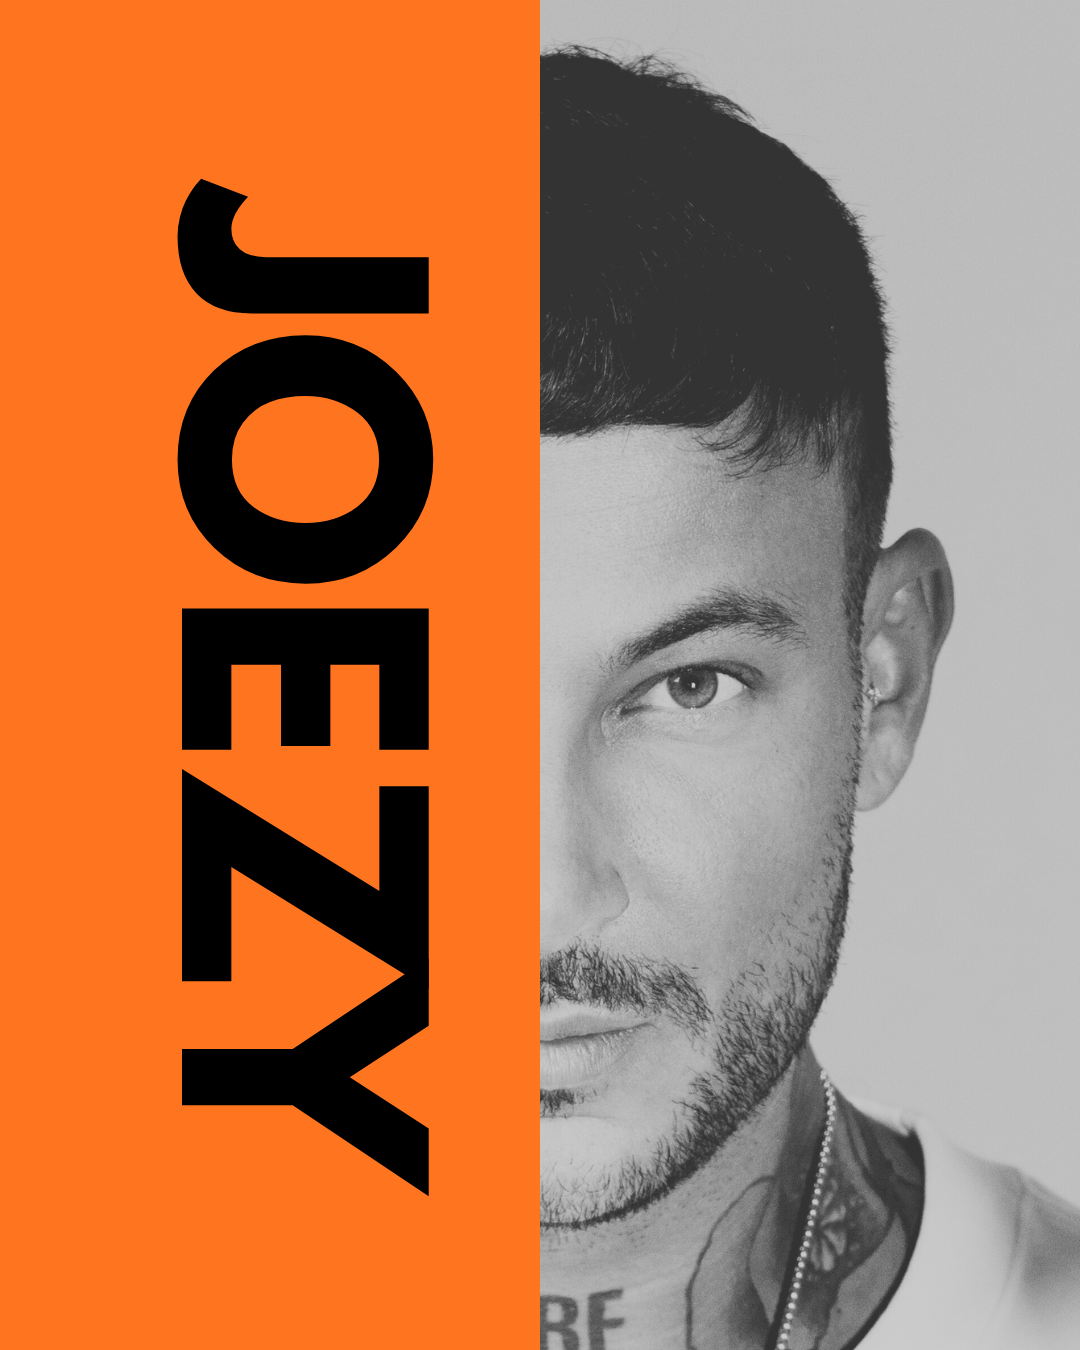
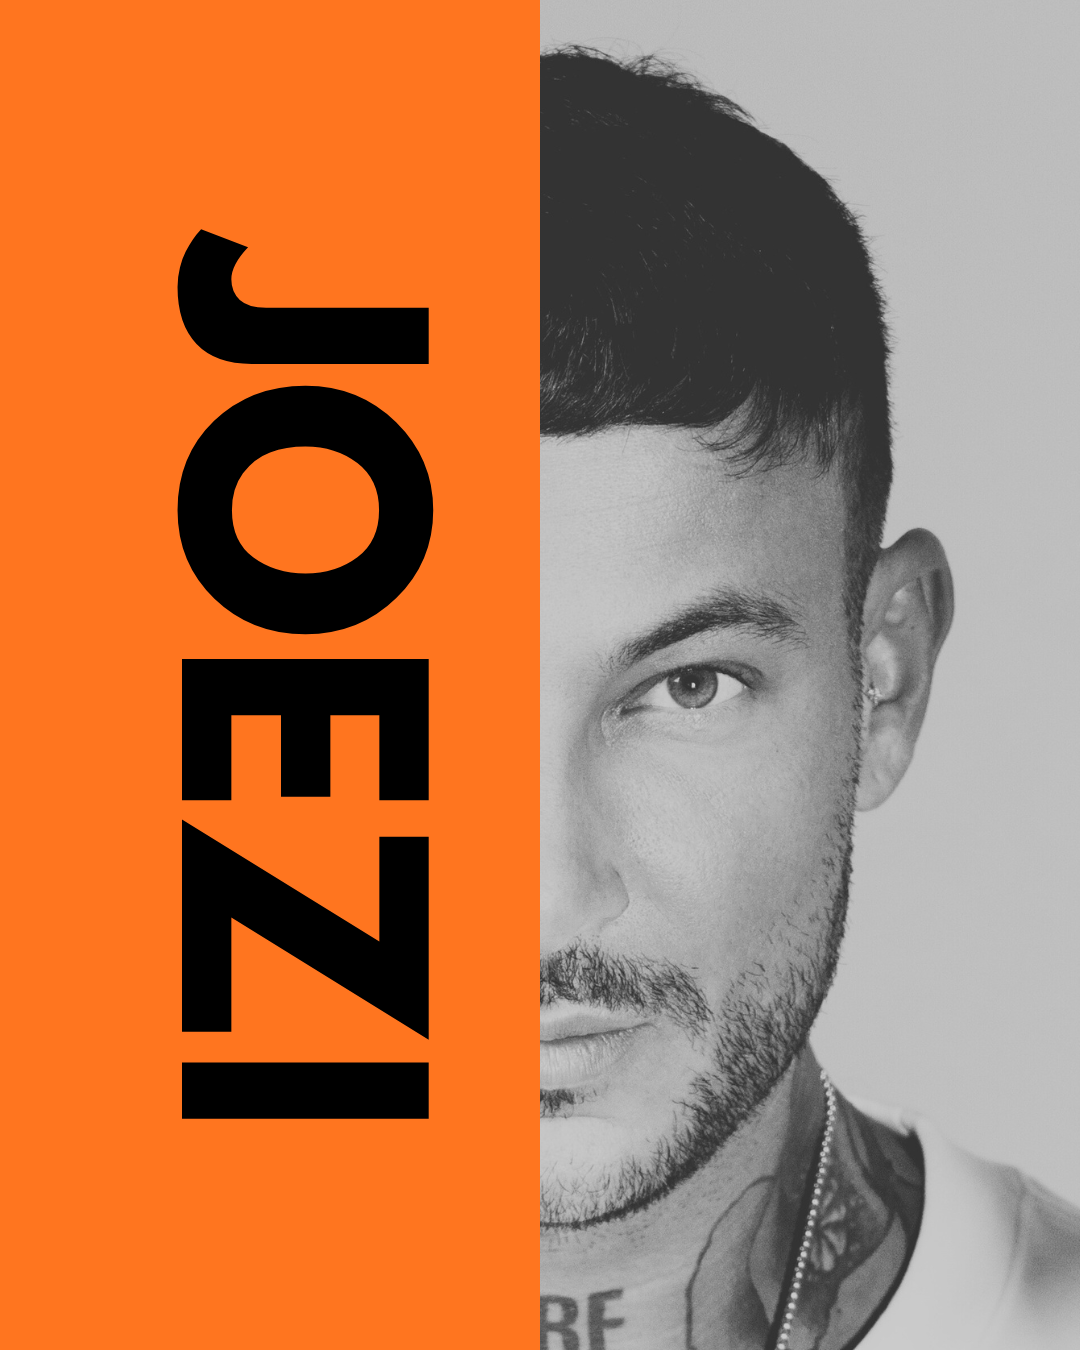
test lineup

Changed region(s): [[0.1528, 0.1244, 0.3972, 0.9022], [0.3972, 0.3422, 0.4278, 0.3733]]

diff --git a/src/components/Schedule.tsx b/src/components/Schedule.tsx
@@ -1,12 +1,13 @@
-import joezy from "../assets/1.png";
+import joezi from "../assets/1.png";
 import lepah from "../assets/2.png";
 import volt from "../assets/3.png";
 import CubeAnimation from "./CubeAnimation";
+import ArtistCard from "./ArtistCard";
 
 export default function Schedule() {
   return (
     <section
-      className="scroll-mt-16 md:scroll-mt-16 mx-auto max-w-5xl px-4 py-20 min-h-viewport"
+      className="scroll-mt-16 md:scroll-mt-16 mx-auto max-w-5xl px-4 py-20 min-h-viewport overflow-visible"
       id="lineup"
     >
       {/* Text */}
@@ -43,40 +44,34 @@ export default function Schedule() {
       </div>
 
       {/* Strip de imagini side-by-side */}
-      <div className="mt-10">
-        <div className="grid grid-cols-1 sm:grid-cols-2 md:grid-cols-3 gap-3 md:gap-4">
-          <figure className="relative h-72 sm:h-80 md:h-[420px] overflow-hidden rounded-xl ring-1 ring-white/10">
-            <img
-              src={lepah}
-              alt="Christian Lepah"
-              className="w-full h-full object-cover"
-              loading="lazy"
-              decoding="async"
-            />
-          </figure>
+      <div className="-mt-[98px] relative z-0 overflow-visible pb-44 sm:pb-80 md:pb-[300px]">
+        <div className="grid grid-cols-1 sm:grid-cols-2 md:grid-cols-3 gap-6 md:gap-4">
+          <ArtistCard
+            src={lepah}
+            alt="Christian Lepah"
+            title="Christian Lepah"
+            text="Christian Lepah, cu o carieră de peste 24 de ani, unul dintre cei mai apreciați DJ și producători ai scenei deep melodic internaționale, aduce un sunet rafinat, plin de emoție, ce creează conexiunea autentică cu publicul."
+            className="h-72 sm:h-80 md:h-[420px]"
+          />
 
-          <figure className="relative h-72 sm:h-80 md:h-[420px] overflow-hidden rounded-xl ring-1 ring-white/10">
-            <img
-              src={joezy}
-              alt="Joezy"
-              className="w-full h-full object-cover"
-              loading="lazy"
-              decoding="async"
-            />
-          </figure>
+          <ArtistCard
+            src={joezi}
+            alt="Joezi"
+            title="Joezi"
+            text="Joezi, artistul francez care a revoluționat scena Afro House, aduce un sound hipnotic ce combină Afro Beats și Electro Melodic, creând o experiență senzorială intensă. Cu peste 60 de piese lansate pe labeluri internaționale și un vibe unic, Joezi transformă fiecare set într-o călătorie sonoră ce depășește granițele muzicii electronice."
+            className="h-72 sm:h-80 md:h-[420px]"
+          />
 
-          <figure className="relative h-72 sm:h-80 md:h-[420px] overflow-hidden rounded-xl ring-1 ring-white/10">
-            <img
-              src={volt}
-              alt="Volt"
-              className="w-full h-full object-cover"
-              loading="lazy"
-              decoding="async"
-            />
-          </figure>
+          <ArtistCard
+            src={volt}
+            alt="Volt"
+            title="Volt"
+            text="Descriere demo pentru Volt. Înlocuiește cu textul final când îl ai."
+            className="h-72 sm:h-80 md:h-[420px] mb-10"
+          />
         </div>
       </div>
-      <div className="mt-8 md:mt-16 grid text-center" id="tickets">
+      <div className="mt-8 md:mt-2 grid text-center" id="tickets">
         <div>
           <a
             className="btn-primary "
@@ -89,7 +84,7 @@ export default function Schedule() {
         <div className="text-xs mt-2">*Bilete sunt în număr limitat!</div>
       </div>
 
-      <div className="mt-12">
+      <div className="mt-8 md:mt-12">
         <CubeAnimation />
       </div>
     </section>

diff --git a/src/components/ArtistCard.tsx b/src/components/ArtistCard.tsx
@@ -1,0 +1,88 @@
+import React from "react";
+
+type Props = {
+  src: string;
+  alt: string;
+  text: string;
+  title?: string;
+  // înălțimea UNUI rând (poza / text). Totalul figurii = 2 * rowHeight
+  rowHeight?: number; // px, default 420
+  objectPosition?: string; // ex. "50% 34%"
+  className?: string; // extra classes (optional)
+};
+
+export default function ArtistInfoCard({
+  src,
+  alt,
+  text,
+  title,
+  rowHeight = 420,
+  objectPosition,
+  className = "",
+}: Props) {
+  return (
+    <figure
+      // h = 2 * rowHeight, fără overflow
+      className={`group relative rounded-xl z-10 hover:z-50 isolate ${className}`}
+      style={{ height: `calc(${rowHeight}px)` }}
+    >
+      {/* grid cu 2 rânduri: la hover se deschide rândul textului */}
+      <div
+        className="
+          grid w-full h-full
+          [grid-template-rows:1fr_0fr]
+          group-hover:[grid-template-rows:1fr_1fr]
+          transition-[grid-template-rows] duration-700 ease-out
+        "
+      >
+        {/* Rând 1 – POZA (urcă la hover) */}
+        <div
+          className="relative h-[unset] overflow-visible
+                     translate-y-1/2 group-hover:translate-y-0
+                     transition-transform duration-700 ease-out"
+          style={{ height: `${rowHeight}px` }}
+        >
+          <img
+            src={src}
+            alt={alt}
+            loading="lazy"
+            decoding="async"
+            className="absolute inset-0 z-10 w-full h-full object-cover rounded-t-xl"
+            style={objectPosition ? { objectPosition } : undefined}
+          />
+        </div>
+
+        {/* Rând 2 – TEXT (coboară la hover) */}
+        <div
+          className="relative h-[unset] overflow-visible
+             -translate-y-1/2 group-hover:translate-y-0
+             transition-transform duration-700 ease-out"
+          style={{ height: `${rowHeight}px` }}
+        >
+          <div
+            className="
+                    absolute inset-0 z-0 rounded-b-xl
+                    bg-black/70 backdrop-blur ring-1 ring-white/10
+                    p-5 sm:p-6 flex flex-col justify-center
+
+                    /* ASCUNS COMPLET sub poză până iese în zona lui */
+                    [clip-path:inset(100%_0_0_0)]          /* totul tăiat la start */
+                    group-hover:[clip-path:inset(0_0_0_0)] /* devine complet vizibil doar la hover */
+
+                    opacity-0 group-hover:opacity-100      /* opțional, pentru un fade plăcut */
+                    transition-[clip-path,opacity] duration-700 ease-out"
+          >
+            {title && (
+              <h3 className="font-display text-3xl font-semibold mb-2 text-center">
+                {title}
+              </h3>
+            )}
+            <p className="text-[17px] leading-relaxed text-white/85 text-center">
+              {text}
+            </p>
+          </div>
+        </div>
+      </div>
+    </figure>
+  );
+}

diff --git a/src/components/Navbar.tsx b/src/components/Navbar.tsx
@@ -1,4 +1,5 @@
-import React, { useEffect, useState } from "react";
+import { useEffect, useState } from "react";
+import celestioLogo from "../assets/celestio_logo.png";
 
 const links = [
   { href: "#about", label: "Despre" },
@@ -24,8 +25,10 @@ export default function Navbar() {
     <header className="sticky top-0 z-30 backdrop-blur bg-black/10">
       <nav className="relative mx-auto max-w-5xl px-4 py-3 flex items-center justify-between">
         <a href="#" className="font-display text-xl tracking-wide text-center">
-          CELESTIO
-          <div>Christmas Edition 2025 prezinta: Joezy</div>
+          <div>
+            <div>Celestio</div>
+            Christmas Edition 2025 prezinta: Joezy
+          </div>
         </a>
 
         {/* Desktop nav */}

diff --git a/src/components/Hero.tsx b/src/components/Hero.tsx
@@ -5,7 +5,7 @@ export default function Hero() {
     <section className="relative min-h-viewport flex items-center" id="hero">
       <div className="mx-auto max-w-3xl px-4 text-center">
         <p className="text-xs uppercase tracking-[0.35em] text-white/70">
-          Singurul festival de de Afro House din Romania de Crăciun!{" "}
+          Singurul festival de Afro House din Romania de Crăciun!{" "}
           <div>Baia Mare @Sala Polivalentă Lascăr Pană</div>
         </p>
         <h1 className="mt-4 font-display text-5xl sm:text-6xl md:text-7xl font-bold leading-tight text-glow">

diff --git a/src/components/Countdown.tsx b/src/components/Countdown.tsx
@@ -12,7 +12,7 @@ function getTimeLeft(target: Date): TimeLeft {
 }
 
 export default function Countdown({ className = "" }: { className?: string }) {
-  const target = useMemo(() => new Date(2025, 11, 25, 19, 0, 0), []);
+  const target = useMemo(() => new Date(2025, 11, 25, 18, 0, 0), []);
   const [t, setT] = useState<TimeLeft>(() => getTimeLeft(target));
 
   useEffect(() => {

diff --git a/src/App.tsx b/src/App.tsx
@@ -1,4 +1,3 @@
-import React from "react";
 import Navbar from "./components/Navbar";
 import Hero from "./components/Hero";
 import Schedule from "./components/Schedule";
